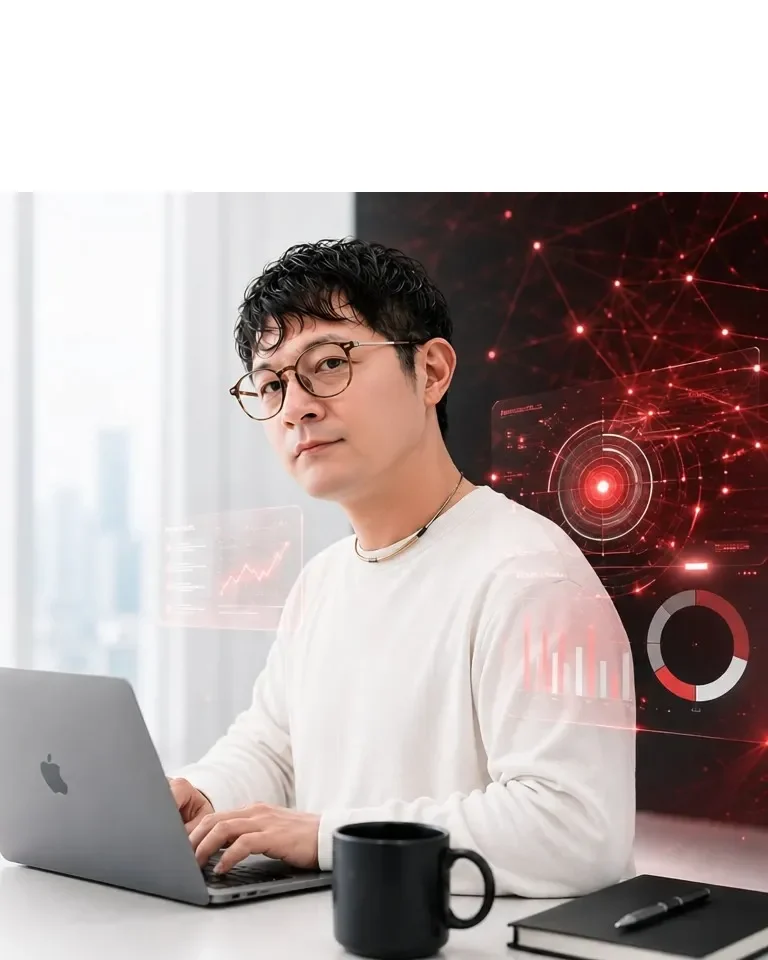
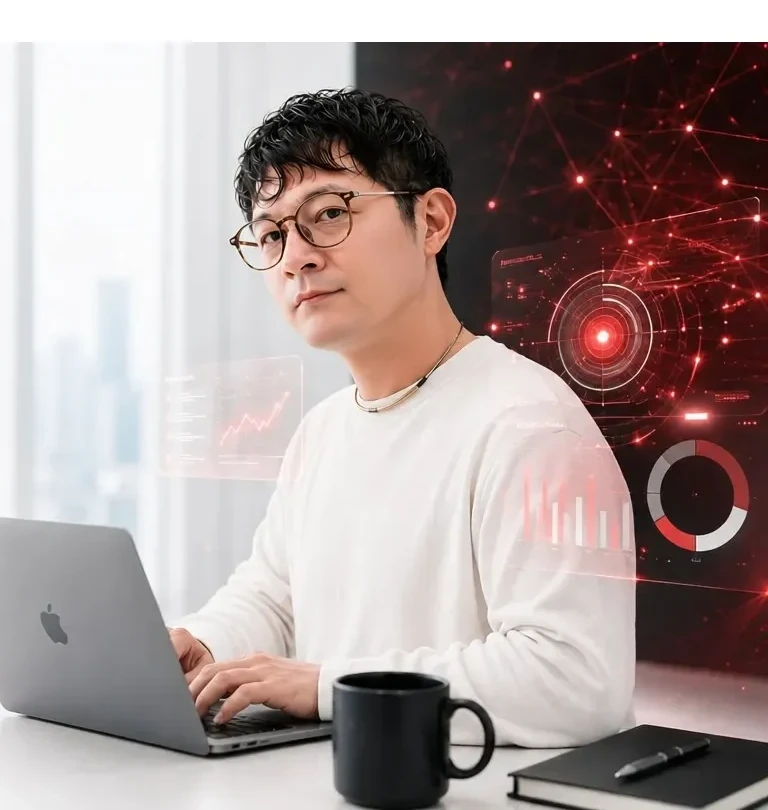
hero-animation-fix

diff --git a/assets/css/style.css b/assets/css/style.css
@@ -45,8 +45,8 @@ button, input, textarea { font: inherit; }
 .header-logo { display: block; width: 142px; height: auto; }
 .site-header .nav-link { padding: .8rem .95rem !important; color: var(--black); font-size: .78rem; font-weight: 700; letter-spacing: .04em; }
 .site-header .nav-link:hover, .site-header .nav-link:focus { color: var(--red); }
-.header-contact { display: inline-flex; align-items: center; gap: .75rem; padding: .72rem 1.1rem; color: var(--white); background: var(--black); font-size: .78rem; font-weight: 700; transition: background .2s ease, transform .2s ease; }
-.header-contact:hover { color: var(--white); background: var(--red); transform: translateY(-1px); }
+.header-contact { display: inline-flex; align-items: center; gap: .75rem; padding: .72rem 1.1rem; color: var(--white); background: var(--red); font-size: .78rem; font-weight: 700; transition: background .2s ease, transform .2s ease; }
+.header-contact:hover { color: var(--white); background: var(--red-dark); transform: translateY(-1px); }
 .navbar-toggler { display: flex; width: 44px; height: 44px; flex-direction: column; justify-content: center; gap: 5px; padding: 10px; border: 0; border-radius: 0; box-shadow: none !important; }
 .menu-line { display: block; width: 100%; height: 1px; background: var(--black); }
 
@@ -63,6 +63,12 @@ button, input, textarea { font: inherit; }
 }
 .hero::after { position: absolute; inset: auto 0 0; height: 18%; content: ""; background: linear-gradient(to top, #fff, transparent); pointer-events: none; }
 .hero-content { position: relative; z-index: 2; max-width: 680px; }
+.hero-enter-left,
+.hero-enter-up { opacity: 0; will-change: opacity, transform; }
+.hero-enter-left { animation: heroFromLeft .9s cubic-bezier(.2,.65,.3,1) .12s forwards; transform: translate3d(-42px,0,0); }
+.hero-enter-up { animation: heroFromBottom .8s cubic-bezier(.2,.65,.3,1) .48s forwards; transform: translate3d(0,34px,0); }
+@keyframes heroFromLeft { to { opacity: 1; transform: translate3d(0,0,0); } }
+@keyframes heroFromBottom { to { opacity: 1; transform: translate3d(0,0,0); } }
 .eyebrow { margin: 0 0 1.75rem; color: var(--red); font-size: .68rem; font-weight: 800; letter-spacing: .22em; }
 .hero-title { margin: 0; color: var(--black); font-size: clamp(3.5rem, 6.8vw, 6.8rem); font-weight: 700; line-height: 1.12; letter-spacing: normal; }
 .title-line { display: inline-block; white-space: nowrap; }
@@ -183,17 +189,17 @@ button, input, textarea { font: inherit; }
   .hero {
     min-height: max(760px, 100svh);
     align-items: flex-start;
-    padding-top: calc(var(--header-height) + clamp(4.25rem, 11vh, 7rem));
-    padding-bottom: 4rem;
+    padding-top: calc(var(--header-height) + clamp(2rem, 5.5vh, 3.5rem));
+    padding-bottom: 3.5rem;
     background-color: #fff;
     background-image:
-      linear-gradient(180deg, rgba(255,255,255,.95) 0%, rgba(255,255,255,.84) 27%, rgba(255,255,255,.46) 48%, rgba(255,255,255,.10) 69%, rgba(255,255,255,0) 84%),
+      linear-gradient(90deg, rgba(255,255,255,.90) 0%, rgba(255,255,255,.68) 43%, rgba(255,255,255,.25) 76%, rgba(255,255,255,.08) 100%),
       url("../img/hero-mobile.webp");
-    background-position: center top;
+    background-position: 32% center;
     background-size: cover;
     background-repeat: no-repeat;
   }
-  .hero::after { height: 6%; }
+  .hero::after { height: 4%; }
   .hero-content { width: 100%; max-width: 34rem; }
   .hero-title { max-width: 100%; font-size: clamp(2.65rem, 10.8vw, 4.1rem); line-height: 1.17; }
   .hero-title .title-line { max-width: 100%; white-space: nowrap; }
@@ -239,5 +245,7 @@ button, input, textarea { font: inherit; }
 @media (prefers-reduced-motion: reduce) {
   html { scroll-behavior: auto; }
   *, *::before, *::after { animation-duration: .01ms !important; animation-iteration-count: 1 !important; transition-duration: .01ms !important; }
-  .reveal { opacity: 1; transform: none; }
+  .reveal,
+  .hero-enter-left,
+  .hero-enter-up { opacity: 1; animation: none !important; transform: none; }
 }

diff --git a/index.html b/index.html
@@ -43,11 +43,13 @@
   <main id="top">
     <section class="hero" aria-labelledby="hero-title">
       <div class="container-fluid site-container">
-        <div class="hero-content reveal is-visible">
-          <p class="eyebrow">AI STRATEGY PARTNER</p>
-          <h1 id="hero-title" class="hero-title"><span class="title-line">AIを、</span><br><span class="title-line">使える武器に。</span></h1>
-          <p class="hero-copy">導入するだけで終わらせない。<br>業務と売上につながるAI活用を、現場から設計します。</p>
-          <div class="hero-actions">
+        <div class="hero-content">
+          <div class="hero-message hero-enter-left">
+            <p class="eyebrow">AI STRATEGY PARTNER</p>
+            <h1 id="hero-title" class="hero-title"><span class="title-line">AIを、</span><br><span class="title-line">使える武器に。</span></h1>
+            <p class="hero-copy">導入するだけで終わらせない。<br>業務と売上につながるAI活用を、現場から設計します。</p>
+          </div>
+          <div class="hero-actions hero-enter-up">
             <a class="button button-primary" href="#contact">相談してみる <span aria-hidden="true">→</span></a>
             <a class="text-link" href="#services">できることを見る <span aria-hidden="true">↓</span></a>
           </div>
